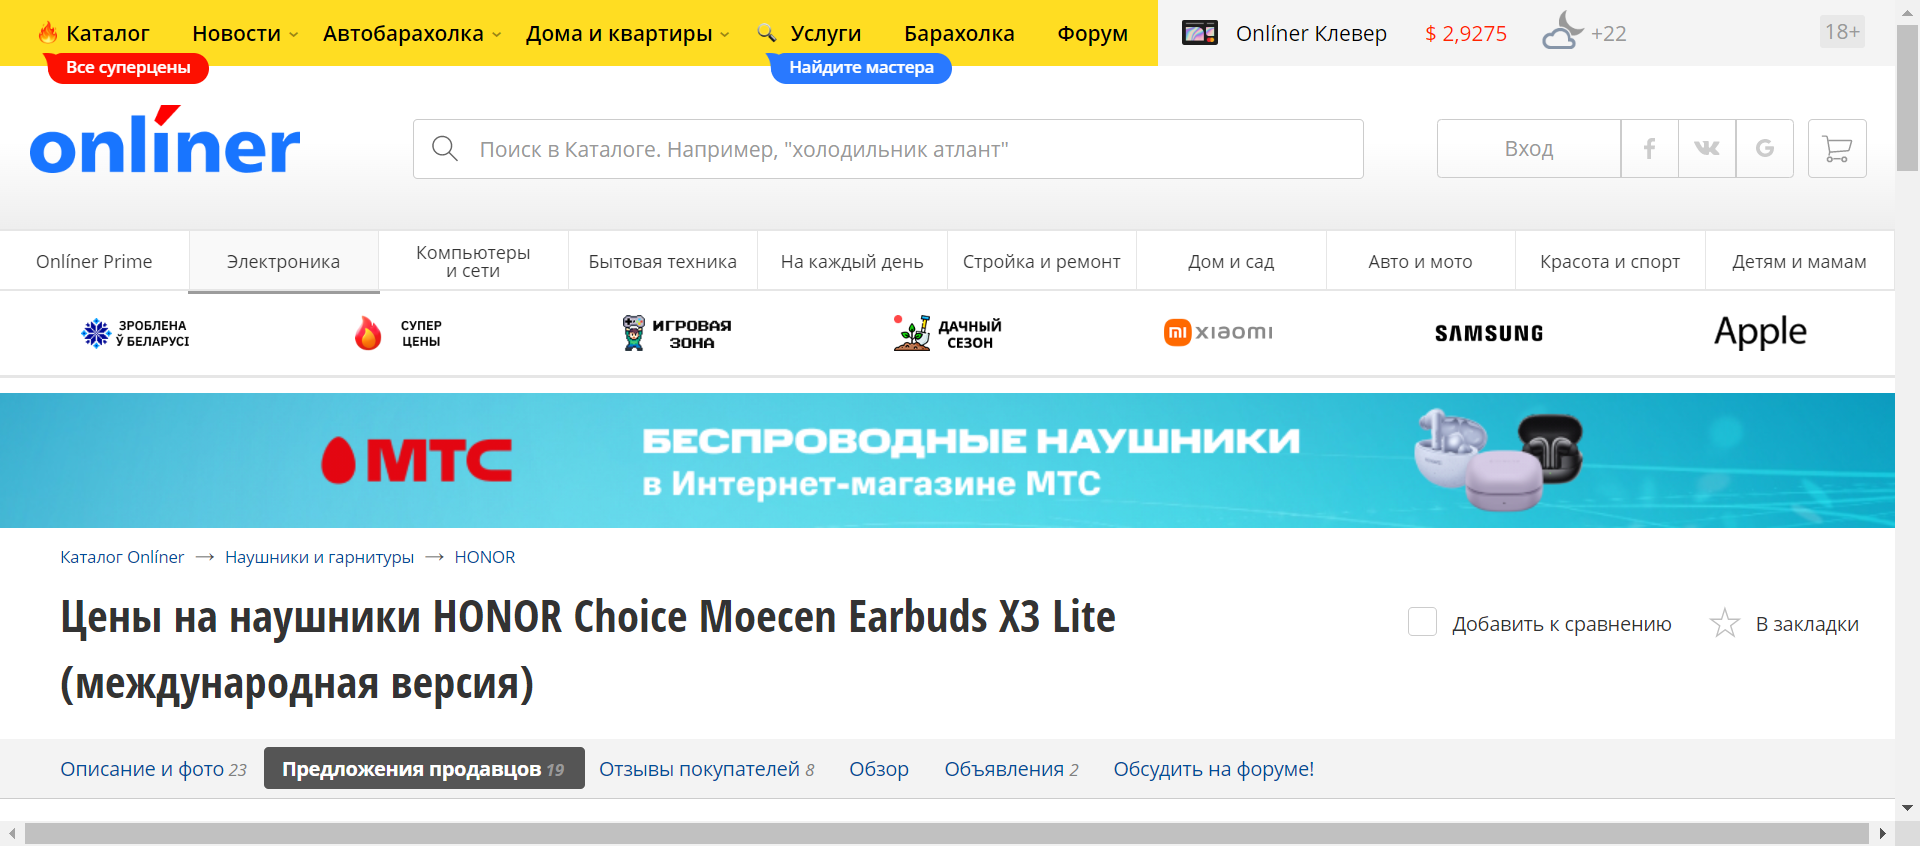
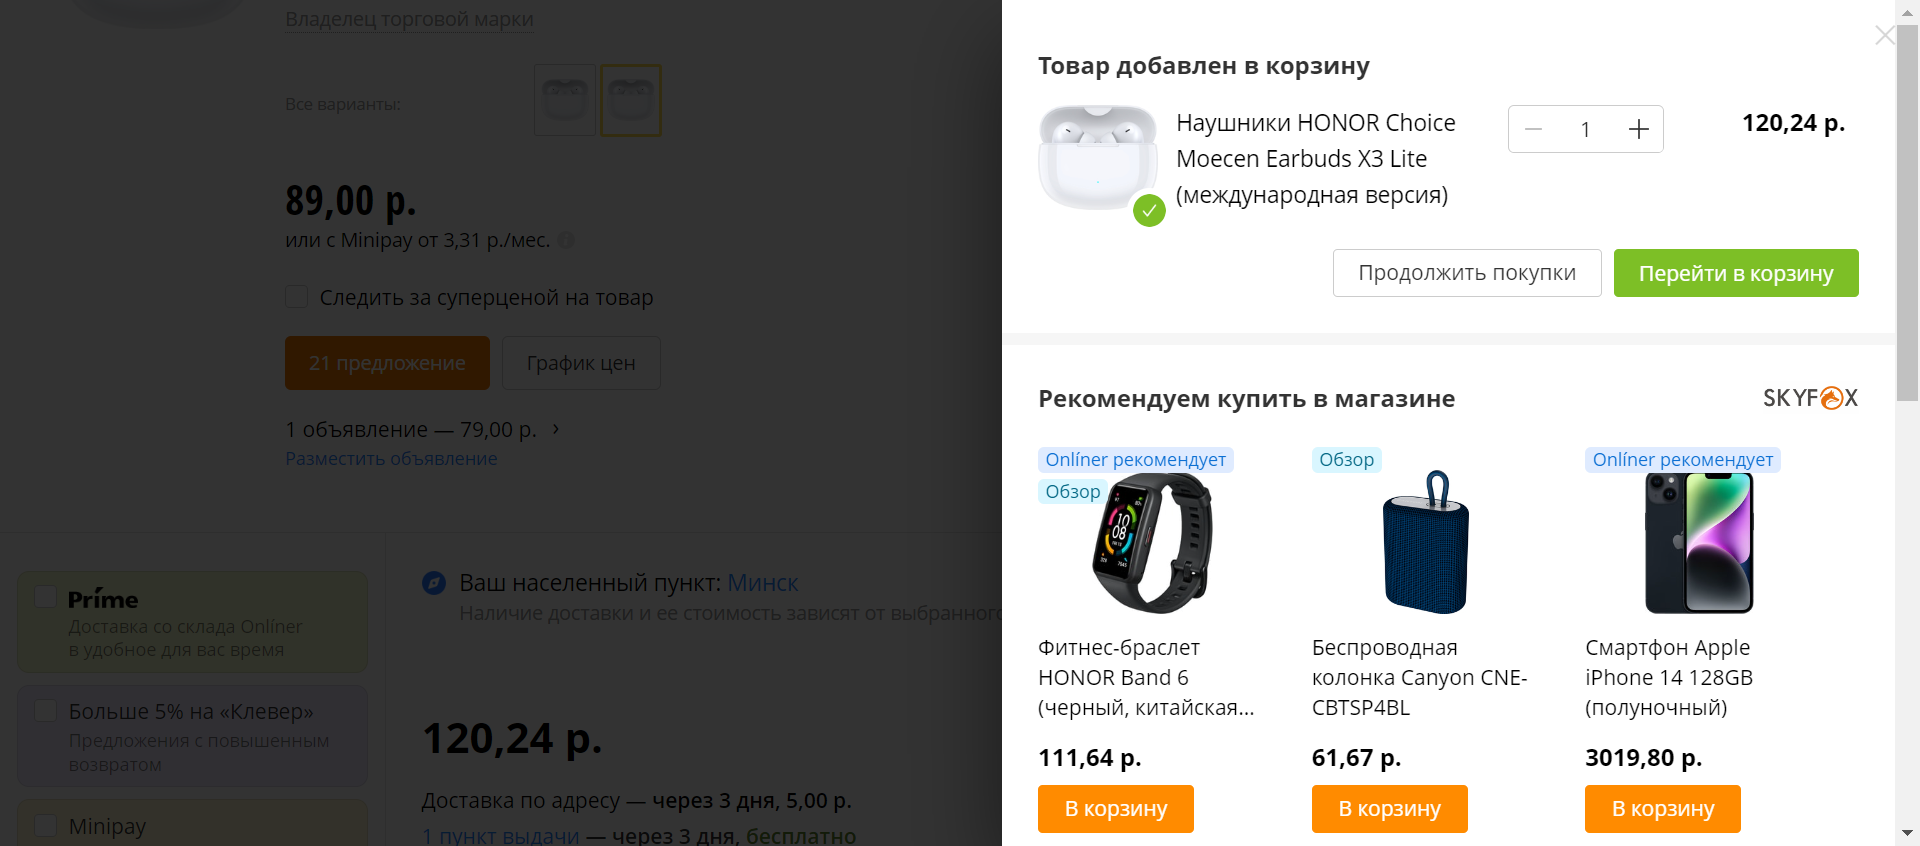
changed steps 1-5, added 6-10 steps

diff --git a/target/selenium-report/report.js b/target/selenium-report/report.js
@@ -38,11 +38,23 @@ formatter.step({
   "keyword": "Then "
 });
 formatter.step({
-  "name": "I click button Сравнение Предложений for HONOR Choice Moecen Earbuds on screen Наушники Купить в Минске in application Onliner",
+  "name": "I click button Сравнение предложений for HONOR Choice Moecen Earbuds X3 Lite (международная версия) on screen Наушники Купить в Минске in application Onliner",
   "keyword": "When "
 });
 formatter.step({
   "name": "I assert I am on screen HONOR Choice Moecen Earbuds X3 Lite (международная версия) купить в рассрочку онлайн in application Onliner",
+  "keyword": "Then "
+});
+formatter.step({
+  "name": "I gather price of item 1 on screen Наушники HONOR Choice Moecen Earbuds in application Onliner",
+  "keyword": "When "
+});
+formatter.step({
+  "name": "I click button В корзину by item 1 on screen Наушники HONOR Choice Moecen Earbuds in application Onliner",
+  "keyword": "And "
+});
+formatter.step({
+  "name": "I assert Товар добавлен в корзину is presented on screen Наушники HONOR Choice Moecen Earbuds in application Onliner",
   "keyword": "Then "
 });
 formatter.examples({
@@ -129,7 +141,7 @@ formatter.result({
   "status": "passed"
 });
 formatter.step({
-  "name": "I click button Сравнение Предложений for HONOR Choice Moecen Earbuds on screen Наушники Купить в Минске in application Onliner",
+  "name": "I click button Сравнение предложений for HONOR Choice Moecen Earbuds X3 Lite (международная версия) on screen Наушники Купить в Минске in application Onliner",
   "keyword": "When "
 });
 formatter.match({
@@ -144,6 +156,36 @@ formatter.step({
 });
 formatter.match({
   "location": "web.steps.NavigationSteps.assertScreenInApplication(java.lang.String,java.lang.String)"
+});
+formatter.result({
+  "status": "passed"
+});
+formatter.step({
+  "name": "I gather price of item 1 on screen Наушники HONOR Choice Moecen Earbuds in application Onliner",
+  "keyword": "When "
+});
+formatter.match({
+  "location": "web.steps.BuyProductSteps.gatherPriceByNumber(int,java.lang.String,java.lang.String)"
+});
+formatter.result({
+  "status": "passed"
+});
+formatter.step({
+  "name": "I click button В корзину by item 1 on screen Наушники HONOR Choice Moecen Earbuds in application Onliner",
+  "keyword": "And "
+});
+formatter.match({
+  "location": "web.steps.BuyProductSteps.clickInBasketByPriceNumber(java.lang.String,int,java.lang.String,java.lang.String)"
+});
+formatter.result({
+  "status": "passed"
+});
+formatter.step({
+  "name": "I assert Товар добавлен в корзину is presented on screen Наушники HONOR Choice Moecen Earbuds in application Onliner",
+  "keyword": "Then "
+});
+formatter.match({
+  "location": "web.steps.BuyProductSteps.assertMessageTextOnScreen(java.lang.String,java.lang.String,java.lang.String)"
 });
 formatter.result({
   "status": "passed"

diff --git a/src/test/java/web/screens/BuyProductScreen.java b/src/test/java/web/screens/BuyProductScreen.java
@@ -1,13 +1,31 @@
 package web.screens;
 
+import eu.ibagroup.junase.web.test.WebDriverManager;
 import org.openqa.selenium.By;
 import web.component.Button;
+import web.component.Input;
 
 public class BuyProductScreen {
+    private static final Button buttonOffers = new Button(By.xpath("//div[contains(@class,'schema-product__offers')]"));
+    private static final Button buttonPriceByCount = new Button(By.xpath("//div[contains(@class,'offers-list__item')]//div[contains(@class,'offers-list__part_action')]"));
+    private static final Input inputPriceByCount = new Input(By.xpath("//div[contains(@class,'offers-list__item')]//div[contains(@class,'offers-list__description_alter-other')]"));
+    private static final Input inputMessageText = new Input(By.xpath("//div[contains(@class,'product-recommended__sidebar-overflow')]"));
 
-    private static final String COMPARE_ORDERS_BUTTON_XPATH = "(//a[contains(@title,'%s')])[1]";
-
-    public void clickCompareOrdersByProductName(String nameOfButton, String productName){
-        new Button(By.xpath(String.format(COMPARE_ORDERS_BUTTON_XPATH,productName))).click();
+    public void clickByProductName(String nameOfButton, String productName) {
+        buttonOffers.findOffersByName(nameOfButton, productName);
     }
+
+    public String gatherPriceByNumber(int numberOfButton) {
+        return inputPriceByCount.gatherPriceByNumber(numberOfButton);
+    }
+
+    public void clickPriceByNumber(int numberOfButton) {
+        buttonPriceByCount.findPriceByNumber(numberOfButton);
+    }
+
+    public boolean assertMessageText(String messageText) {
+        return WebDriverManager.currentSession().getWebDriver().findElements(By.cssSelector(".product-recommended__subheader")).get(0).getText().equals(messageText);
+    };
+
+
 }

diff --git a/src/test/java/web/steps/BuyProductSteps.java b/src/test/java/web/steps/BuyProductSteps.java
@@ -1,13 +1,37 @@
 package web.steps;
 
+import eu.ibagroup.junase.model.util.Assert;
+import io.cucumber.java.en.And;
+import io.cucumber.java.en.Then;
 import io.cucumber.java.en.When;
 import web.screens.BuyProductScreen;
 
 public class BuyProductSteps {
     BuyProductScreen buyProductScreen = new BuyProductScreen();
+
+    String priceByNumber;
+
     @When("^I click button (.*) for (.*) on screen (.*) in application (.*)$")
     public void clickCompareOrdersByProductName(String nameOfButton, String productName, String screen, String app) {
-        buyProductScreen.clickCompareOrdersByProductName(nameOfButton, productName);
-
+        // buyProductScreen.clickCompareOrdersByProductName(nameOfButton, productName);
+        buyProductScreen.clickByProductName(nameOfButton, productName);
     }
+
+    @When("^I gather price of item (.*) on screen (.*) in application (.*)$")
+
+    public void gatherPriceByNumber(int numberOfButton, String screen, String app) {
+        priceByNumber = buyProductScreen.gatherPriceByNumber(numberOfButton);
+    }
+
+    @And("I click button (.*) by item (.*) on screen (.*) in application (.*)$")
+    public void clickInBasketByPriceNumber(String button, int numberOfButton, String screen, String app) {
+        buyProductScreen.clickPriceByNumber(numberOfButton);
+    }
+
+    @Then("I assert (.*) is presented on screen (.*) in application (.*)$")
+    public void assertMessageTextOnScreen(String messageText, String screen, String app) {
+        Assert.assertTrue(() -> buyProductScreen.assertMessageText(messageText));
+    }
+
+
 }

diff --git a/src/test/java/web/component/Button.java b/src/test/java/web/component/Button.java
@@ -6,6 +6,8 @@ import org.openqa.selenium.By;
 import org.openqa.selenium.WebElement;
 import web.util.Wait;
 
+import java.util.List;
+
 /**
  * Button - a model.component for buttons.
  */
@@ -55,4 +57,29 @@ public class Button extends WebComponent implements Control {
     public Button scrollToElement() {
         return (Button) super.scrollToElement();
     }
+
+
+    public void findOffersByName(String nameOfButton, String productName) {
+        Wait.functionPassed(() -> {
+            List<WebElement> listOfElements = getElement().findElements(By.xpath("./a"));
+            for (WebElement element : listOfElements) {
+                if (element.getAttribute("title").equals(nameOfButton + " на " + productName)) {
+                    element.click();
+                    return;
+                }
+            }
+        });
+    }
+
+    public void findPriceByNumber(int numberOfButton) {
+        Wait.functionPassed(() -> {
+            List<WebElement> listOfElements = getElement().findElements(By.xpath("//a[contains(@class,' button-style_expletive')]"));
+            for (WebElement element : listOfElements) {
+                listOfElements.get(numberOfButton).click();
+                return;
+            }
+        });
+    }
+
+
 }

diff --git a/src/test/java/web/component/Input.java b/src/test/java/web/component/Input.java
@@ -6,6 +6,8 @@ import org.openqa.selenium.Keys;
 import org.openqa.selenium.WebElement;
 import web.util.Wait;
 
+import java.util.List;
+
 /**
  * Input - a model.component for inputs and text areas. Allows to set random values.
  */
@@ -67,4 +69,15 @@ public class Input extends WebComponent {
     public Input scrollToElement() {
         return (Input) super.scrollToElement();
     }
+
+    public String gatherPriceByNumber(int numberOfButton) {
+            List<WebElement> listOfElements = getElement().findElements(By.xpath("./a[contains(@class,' button-style_expletive')]"));
+            for (WebElement element : listOfElements) {
+                return listOfElements.get(numberOfButton).getText();
+            }
+
+        return null;
+    }
+
+
 }

diff --git a/src/test/java/web/screens/NavigationScreen.java b/src/test/java/web/screens/NavigationScreen.java
@@ -17,9 +17,6 @@ public class NavigationScreen {
     public String getScreenTitle(){
         return driver.getTitle();
     }
-    private List<WebElement> getElements(By locator) {
-        return driver.findElements(locator);
-    }
     public void navigateToSection(String name) {
         Wait.functionPassed(() -> {
             List<WebElement> items = driver.findElement(By.className("b-top-navigation")).findElements(By.className("b-main-navigation__link"));
